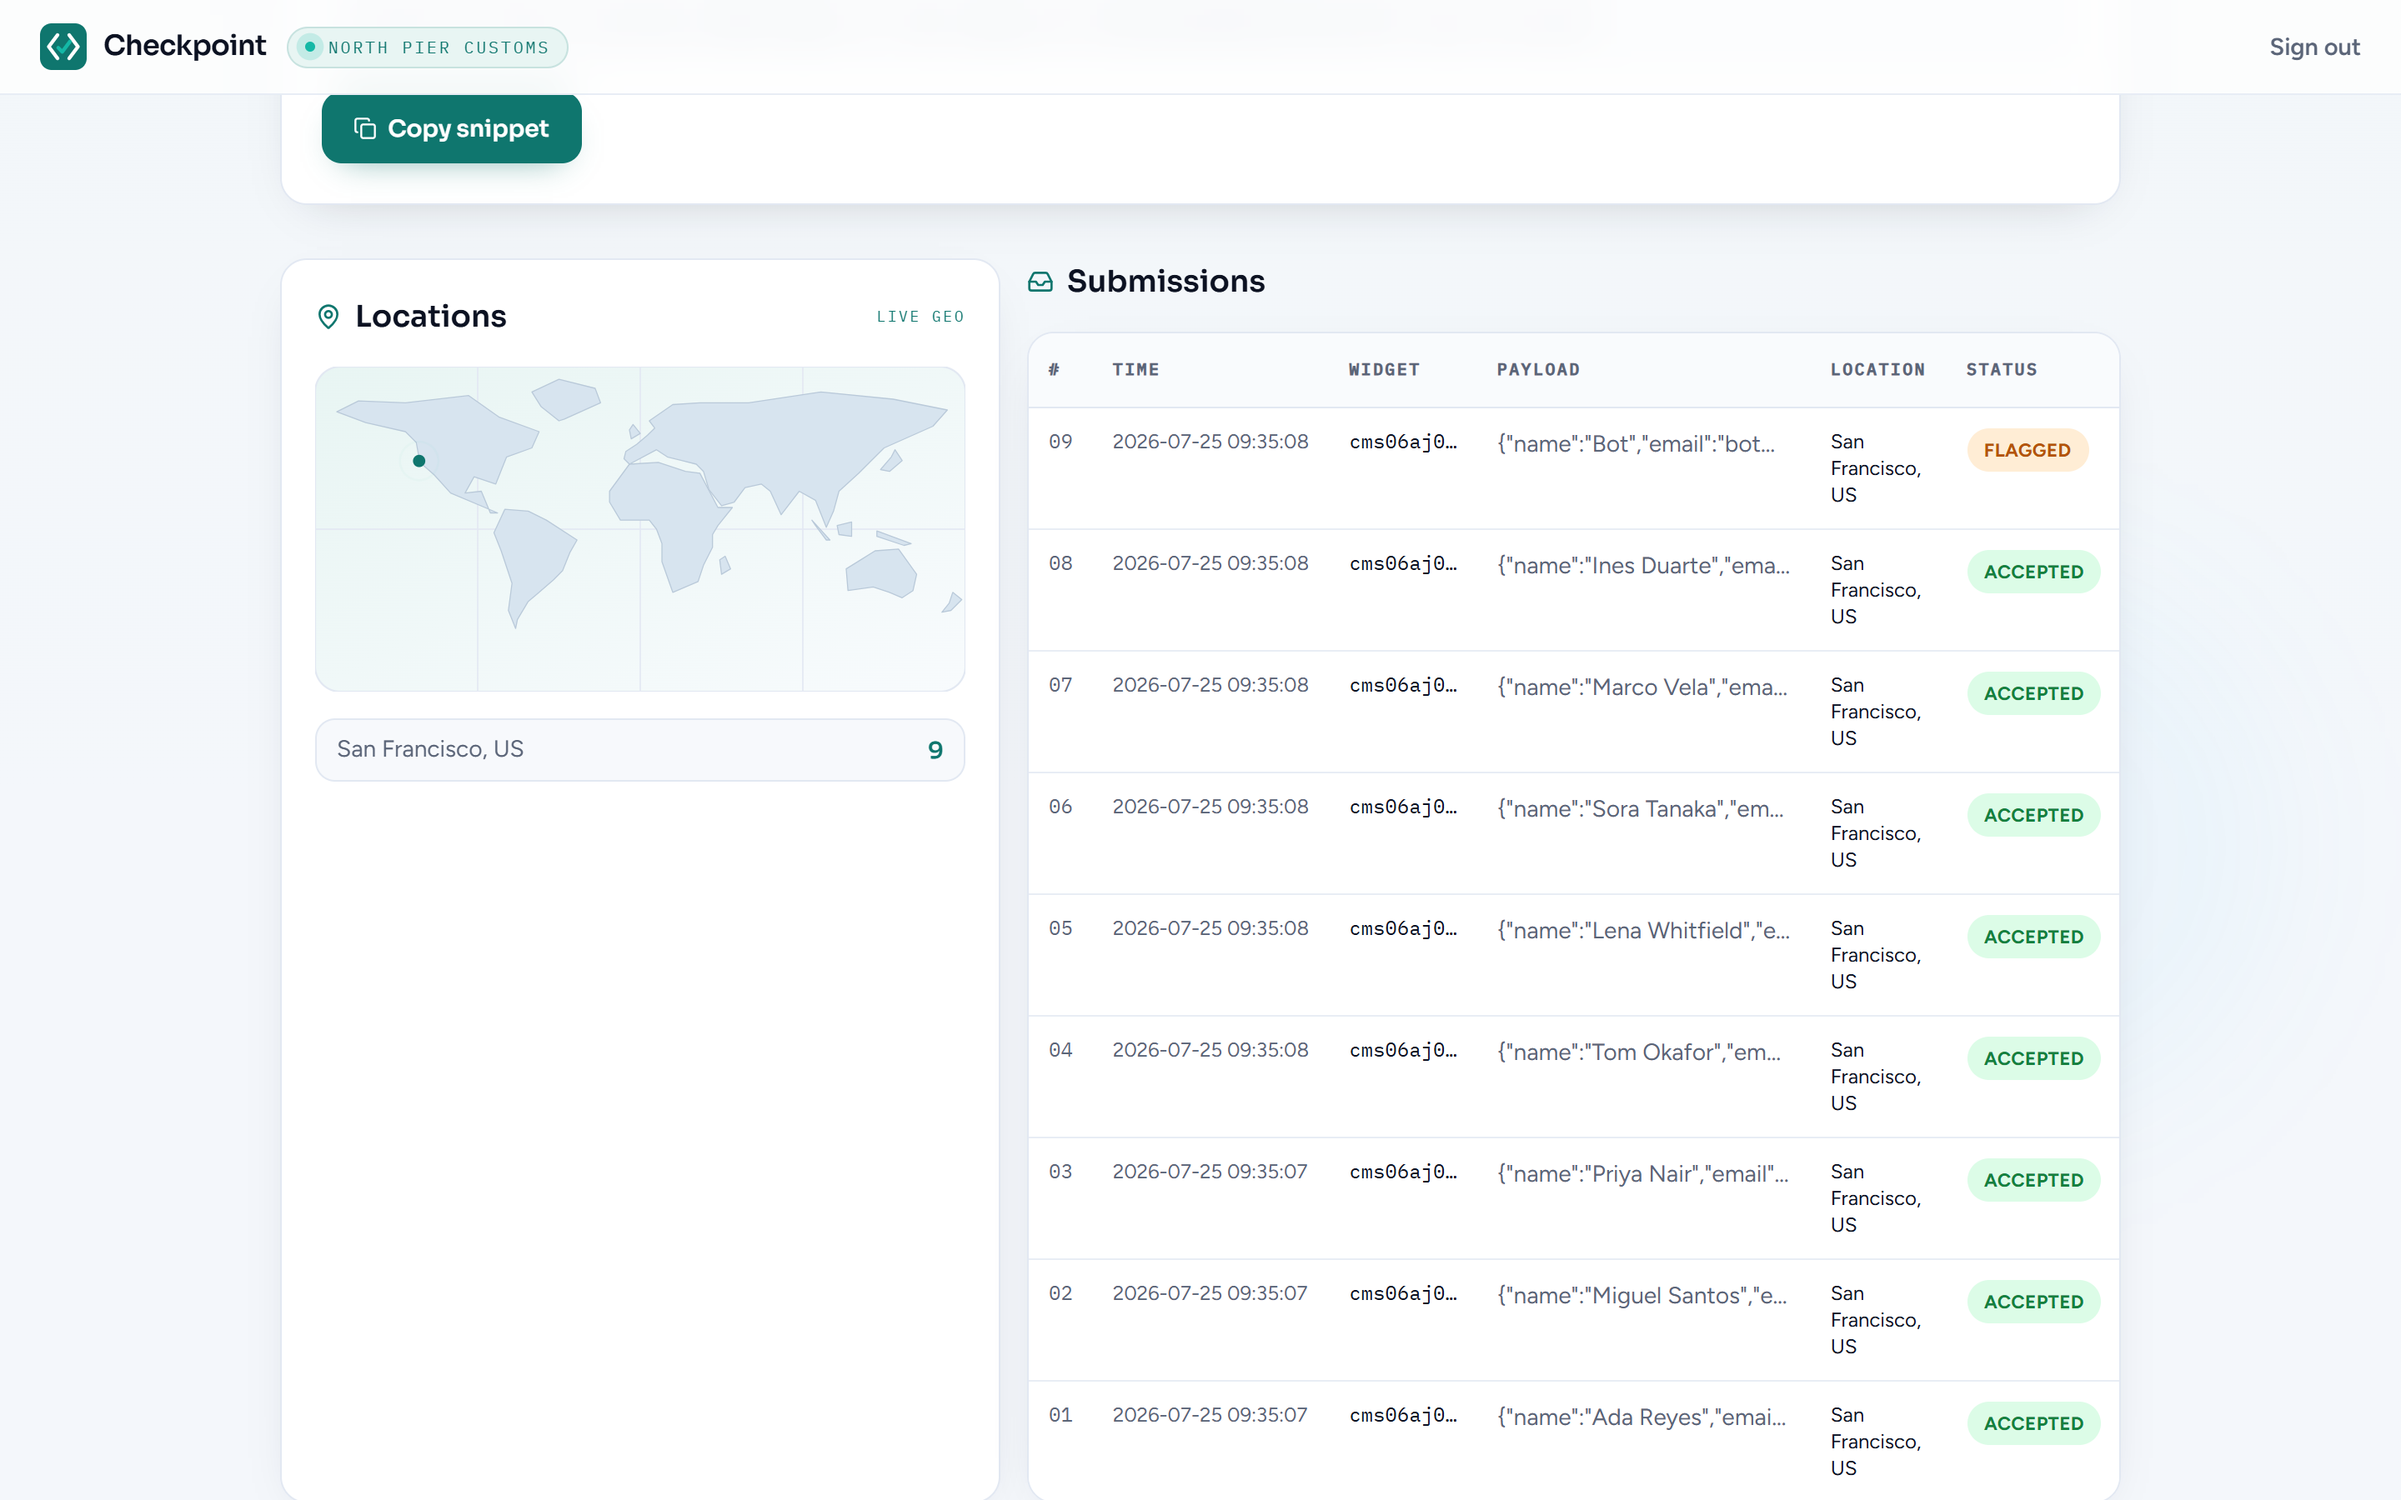
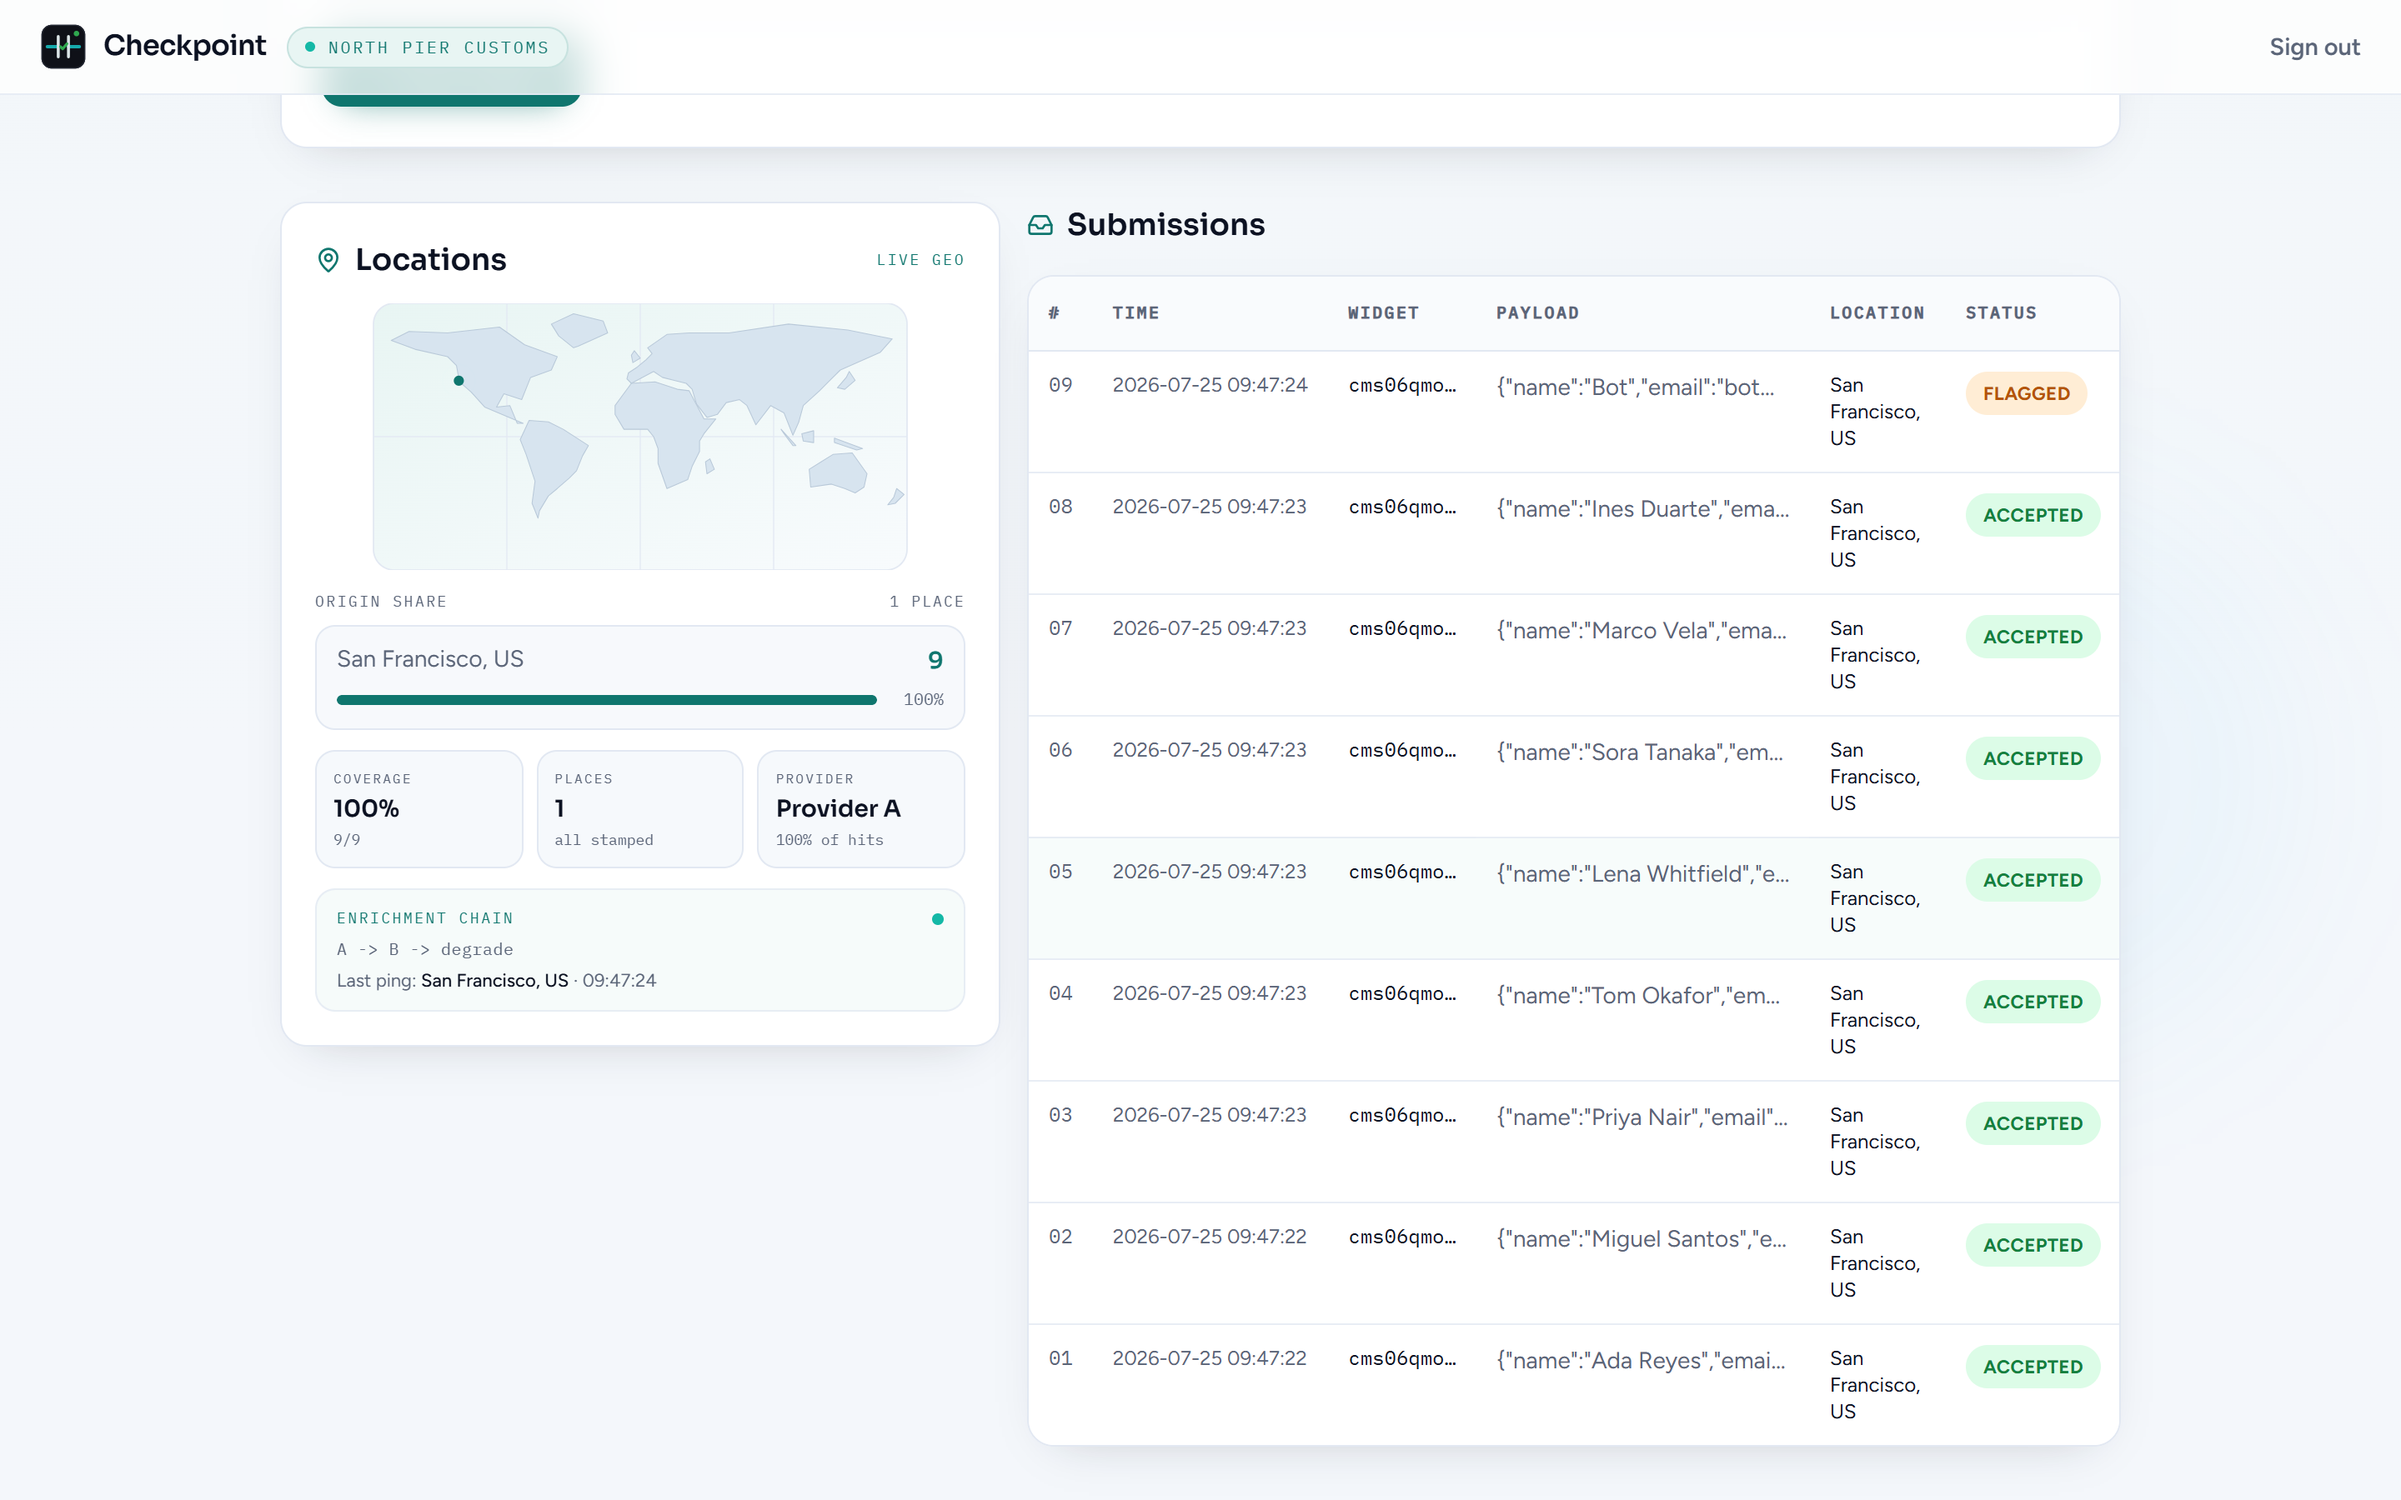
Polish: densify Locations card with geo coverage and enrichment pulse

diff --git a/app/dashboard/dashboard-client.tsx b/app/dashboard/dashboard-client.tsx
@@ -133,7 +133,7 @@ function WorldOutline({
   return (
     <svg
       viewBox="0 0 360 180"
-      className="w-full"
+      className="w-full max-h-40"
       role="img"
       aria-label="World map of submission origins"
     >
@@ -252,6 +252,53 @@ export function DashboardClient({
     }
     return Array.from(byPlace.values()).slice(0, 25);
   }, [submissions]);
+
+  const geoPulse = useMemo(() => {
+    const total = submissions.length;
+    let enriched = 0;
+    const providers = new Map<string, number>();
+    let lastLabel = "-";
+    let lastAt = "";
+
+    for (const s of submissions) {
+      if (s.enrichment?.enriched) {
+        enriched += 1;
+        const provider = s.enrichment.provider || "unknown";
+        providers.set(provider, (providers.get(provider) || 0) + 1);
+        if (!lastAt) {
+          lastLabel =
+            [s.enrichment.city, s.enrichment.country]
+              .filter(Boolean)
+              .join(", ") || "-";
+          lastAt = s.createdAt;
+        }
+      }
+    }
+
+    const topProvider = Array.from(providers.entries()).sort(
+      (a, b) => b[1] - a[1]
+    )[0];
+    const locationTotal = stats.topLocations.reduce((sum, l) => sum + l.count, 0);
+
+    return {
+      enriched,
+      total,
+      coverage: total ? Math.round((enriched / total) * 100) : 0,
+      places: stats.topLocations.length,
+      unenriched: Math.max(0, total - enriched),
+      providerLabel: topProvider
+        ? topProvider[0].startsWith("provider-")
+          ? `Provider ${topProvider[0].slice("provider-".length).toUpperCase()}`
+          : topProvider[0]
+        : "Idle",
+      providerShare: topProvider && enriched
+        ? Math.round((topProvider[1] / enriched) * 100)
+        : 0,
+      lastLabel,
+      lastAt,
+      locationTotal: locationTotal || enriched,
+    };
+  }, [submissions, stats.topLocations]);
 
   async function copySnippet(id: string, snippet: string) {
     await navigator.clipboard.writeText(snippet);
@@ -514,15 +561,15 @@ export function DashboardClient({
         </motion.section>
 
         {/* Locations + submissions */}
-        <div className="grid lg:grid-cols-5 gap-4">
+        <div className="grid lg:grid-cols-5 gap-4 lg:items-start">
           <motion.section
-            className="surface p-5 lg:col-span-2 overflow-hidden"
+            className="surface p-5 lg:col-span-2 overflow-hidden flex flex-col"
             initial={shouldReduce ? false : { opacity: 0, y: 28 }}
             whileInView={shouldReduce ? undefined : { opacity: 1, y: 0 }}
             viewport={{ once: true, amount: 0.2 }}
             transition={{ duration: 0.55, ease: EASE }}
           >
-            <div className="flex items-center justify-between mb-4">
+            <div className="flex items-center justify-between mb-3">
               <div className="flex items-center gap-2">
                 <MapPin className="w-4 h-4 text-signal" />
                 <h2 className="font-display text-lg font-semibold">Locations</h2>
@@ -532,26 +579,146 @@ export function DashboardClient({
               </span>
             </div>
             <WorldOutline points={geoPoints} />
-            <ul className="mt-4 space-y-2">
-              {stats.topLocations.map((l, i) => (
-                <motion.li
-                  key={l.label}
-                  initial={shouldReduce ? false : { opacity: 0, x: -8 }}
-                  whileInView={shouldReduce ? undefined : { opacity: 1, x: 0 }}
-                  viewport={{ once: true }}
-                  transition={{ delay: i * 0.06, duration: 0.4, ease: EASE }}
-                  className="flex items-center justify-between text-sm border border-line rounded-xl px-3 py-2 bg-canvas/70"
-                >
-                  <span className="text-muted">{l.label}</span>
-                  <span className="font-display font-semibold text-signal">
-                    {l.count}
+
+            <div className="mt-3 flex flex-col gap-3">
+              <div>
+                <div className="flex items-center justify-between mb-2">
+                  <p className="font-mono text-[9px] tracking-[0.14em] text-muted uppercase">
+                    Origin share
+                  </p>
+                  <p className="font-mono text-[9px] tracking-[0.12em] text-muted uppercase">
+                    {geoPulse.places} place{geoPulse.places === 1 ? "" : "s"}
+                  </p>
+                </div>
+                <ul className="space-y-2">
+                  {stats.topLocations.map((l, i) => {
+                    const share = geoPulse.locationTotal
+                      ? Math.round((l.count / geoPulse.locationTotal) * 100)
+                      : 0;
+                    return (
+                      <motion.li
+                        key={l.label}
+                        initial={shouldReduce ? false : { opacity: 0, x: -8 }}
+                        whileInView={
+                          shouldReduce ? undefined : { opacity: 1, x: 0 }
+                        }
+                        viewport={{ once: true }}
+                        transition={{
+                          delay: i * 0.06,
+                          duration: 0.4,
+                          ease: EASE,
+                        }}
+                        className="border border-line rounded-xl px-3 py-2.5 bg-canvas/70"
+                      >
+                        <div className="flex items-center justify-between text-sm mb-1.5">
+                          <span className="text-muted truncate pr-2">
+                            {l.label}
+                          </span>
+                          <span className="font-display font-semibold text-signal tabular-nums">
+                            {l.count}
+                          </span>
+                        </div>
+                        <div className="flex items-center gap-2">
+                          <div className="h-1.5 flex-1 rounded-full bg-line/80 overflow-hidden">
+                            <motion.div
+                              className="h-full rounded-full bg-signal"
+                              initial={
+                                shouldReduce ? false : { width: 0 }
+                              }
+                              whileInView={
+                                shouldReduce
+                                  ? undefined
+                                  : { width: `${Math.max(share, 6)}%` }
+                              }
+                              viewport={{ once: true }}
+                              transition={{
+                                delay: 0.15 + i * 0.05,
+                                duration: 0.55,
+                                ease: EASE,
+                              }}
+                              style={
+                                shouldReduce
+                                  ? { width: `${Math.max(share, 6)}%` }
+                                  : undefined
+                              }
+                            />
+                          </div>
+                          <span className="font-mono text-[10px] text-muted w-8 text-right tabular-nums">
+                            {share}%
+                          </span>
+                        </div>
+                      </motion.li>
+                    );
+                  })}
+                  {stats.topLocations.length === 0 && (
+                    <li className="text-sm text-muted border border-dashed border-line rounded-xl px-3 py-4 text-center">
+                      No enriched locations yet. Submissions still land when
+                      providers degrade.
+                    </li>
+                  )}
+                </ul>
+              </div>
+
+              <div className="grid grid-cols-3 gap-2">
+                {[
+                  {
+                    label: "Coverage",
+                    value: `${geoPulse.coverage}%`,
+                    hint: `${geoPulse.enriched}/${geoPulse.total || 0}`,
+                  },
+                  {
+                    label: "Places",
+                    value: String(geoPulse.places),
+                    hint: geoPulse.unenriched
+                      ? `${geoPulse.unenriched} pending`
+                      : "all stamped",
+                  },
+                  {
+                    label: "Provider",
+                    value: geoPulse.providerLabel,
+                    hint: geoPulse.providerShare
+                      ? `${geoPulse.providerShare}% of hits`
+                      : "awaiting",
+                  },
+                ].map((cell) => (
+                  <div
+                    key={cell.label}
+                    className="rounded-xl border border-line bg-canvas/80 px-2.5 py-2.5"
+                  >
+                    <p className="font-mono text-[8px] tracking-[0.14em] text-muted uppercase mb-1">
+                      {cell.label}
+                    </p>
+                    <p className="font-display text-sm font-semibold text-ink leading-tight truncate">
+                      {cell.value}
+                    </p>
+                    <p className="font-mono text-[9px] text-muted mt-0.5 truncate">
+                      {cell.hint}
+                    </p>
+                  </div>
+                ))}
+              </div>
+
+              <div className="rounded-xl border border-line/80 bg-signal-fog/40 px-3 py-2.5">
+                <div className="flex items-center justify-between gap-2 mb-1">
+                  <p className="font-mono text-[9px] tracking-[0.14em] text-signal uppercase">
+                    Enrichment chain
+                  </p>
+                  <span className="signal-status-dot" aria-hidden="true" />
+                </div>
+                <p className="font-mono text-[10px] text-muted tracking-wide">
+                  A {"->"} B {"->"} degrade
+                </p>
+                <p className="text-[11px] text-muted mt-1 leading-snug">
+                  Last ping:{" "}
+                  <span className="text-ink font-medium">
+                    {geoPulse.lastLabel}
                   </span>
-                </motion.li>
-              ))}
-              {stats.topLocations.length === 0 && (
-                <li className="text-sm text-muted">No enriched locations yet.</li>
-              )}
-            </ul>
+                  {geoPulse.lastAt
+                    ? ` · ${geoPulse.lastAt.replace("T", " ").slice(11, 19)}`
+                    : ""}
+                </p>
+              </div>
+            </div>
           </motion.section>
 
           <motion.section
